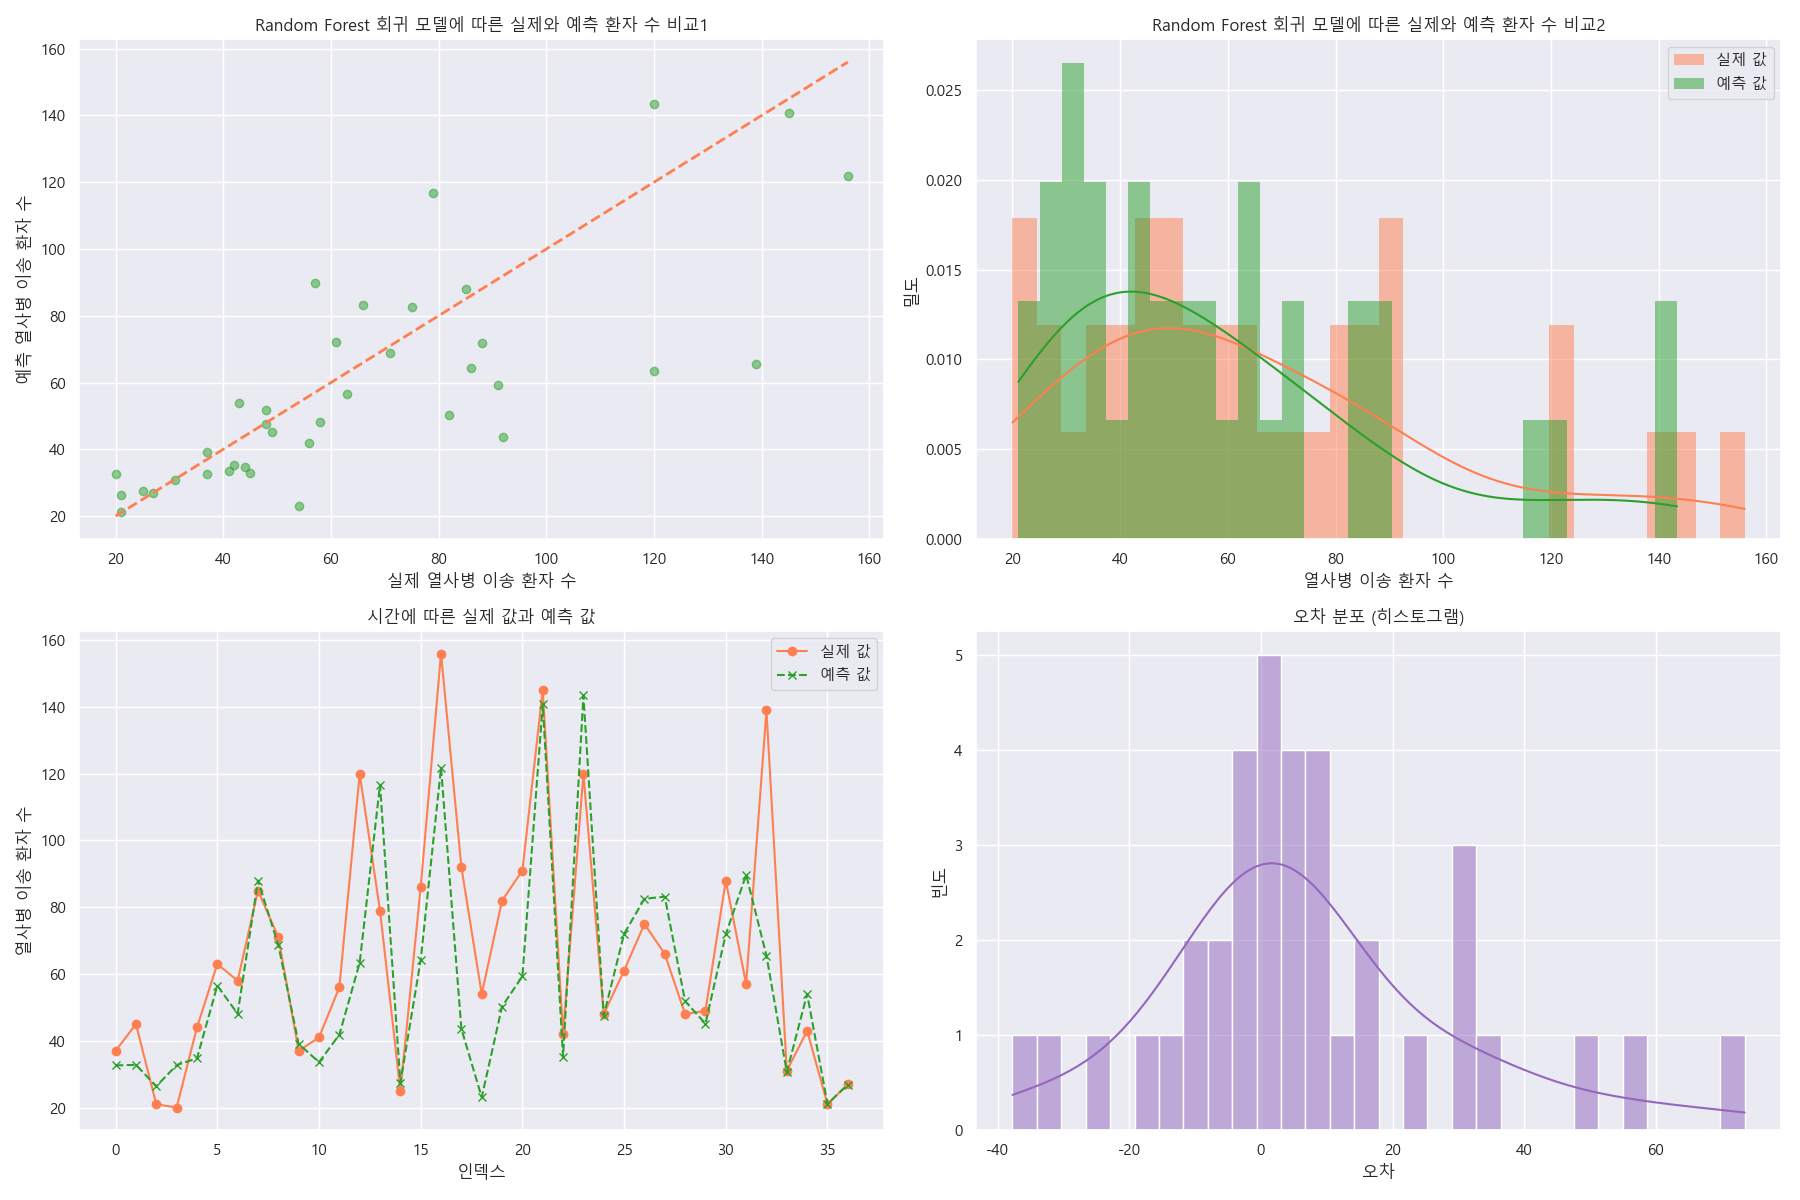
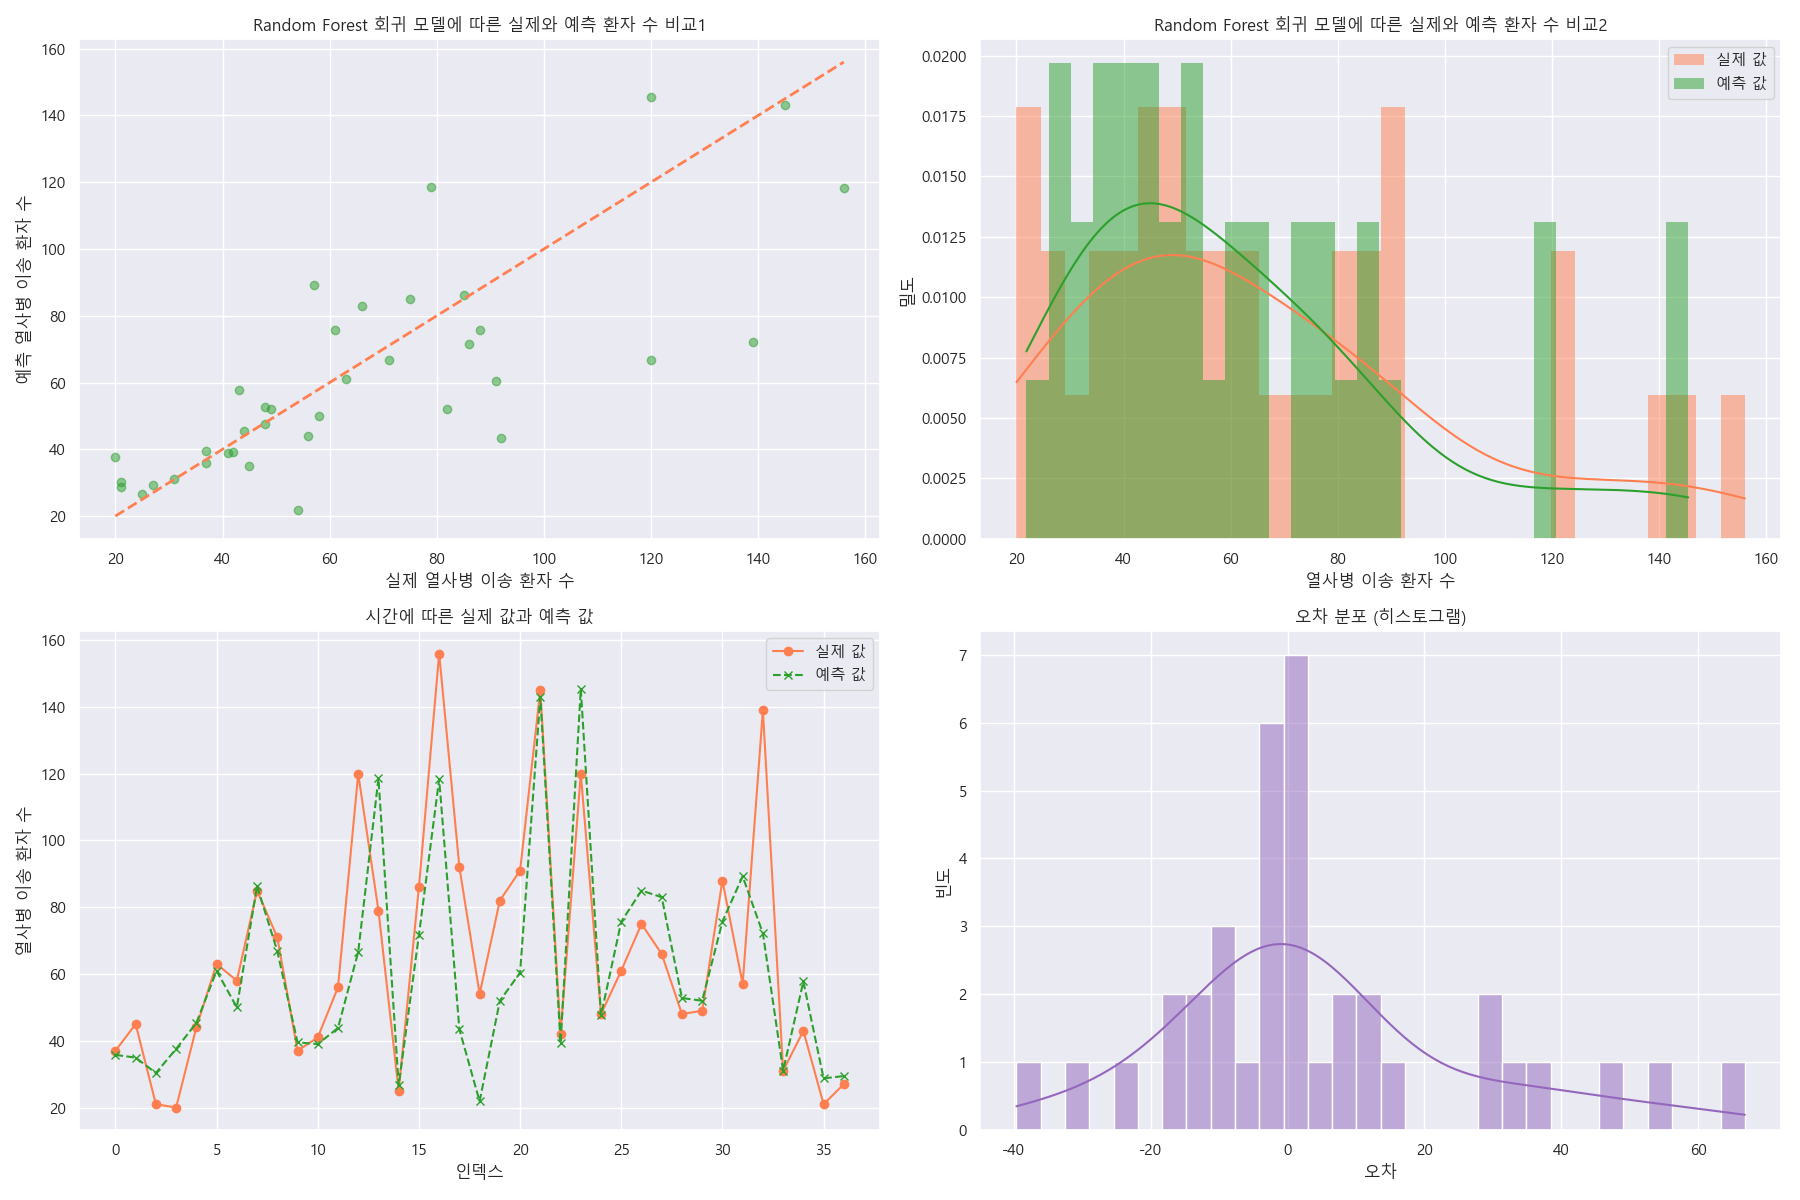
3조

diff --git a/Project_01_RandomForest.py b/Project_01_RandomForest.py
@@ -4,7 +4,7 @@ import matplotlib.pyplot as plt
 import matplotlib
 import seaborn as sns
 from sklearn.model_selection import train_test_split, KFold
-from sklearn.ensemble import GradientBoostingRegressor, RandomForestRegressor
+from sklearn.ensemble import RandomForestRegressor
 from sklearn.metrics import mean_squared_error, r2_score, mean_absolute_error
 from sklearn.preprocessing import StandardScaler
 sns.set_theme(style='darkgrid')
@@ -52,12 +52,12 @@ process_datetime(test_df)
 
 # 5. 데이터 전처리
 # 훈련 데이터에서 필요한 열 선택
-X_train = train_df[['Month', 'Day', '3최고기온', '4평균기온', '9평균습도(%)',
+X_train = train_df[['Year', 'Month', 'Day', '3최고기온', '4평균기온', '9평균습도(%)',
                     '10강수량합계(mm)', '18최고-최저 기온차', '19체감온도', '20불쾌지수', '39전일의 이송 인원수', '40이송 인원수 이동 평균(5일간)']]
 y_train = train_df['2이송 인원']
 
 # 테스트 데이터에서 필요한 열 선택
-X_test = test_df[['Month', 'Day', '3최고기온', '4평균기온', '9평균습도(%)',
+X_test = test_df[['Year', 'Month', 'Day', '3최고기온', '4평균기온', '9평균습도(%)',
                   '10강수량합계(mm)', '18최고-최저 기온차', '19체감온도', '20불쾌지수', '39전일의 이송 인원수', '40이송 인원수 이동 평균(5일간)']]
 y_test = test_df['2이송 인원']
 
@@ -78,7 +78,7 @@ for train_index, val_index in kf.split(X_train):
     X_train_fold, X_val_fold = X_train[train_index], X_train[val_index]
     y_train_fold, y_val_fold = y_train.iloc[train_index], y_train.iloc[val_index]
 
-    model = GradientBoostingRegressor(n_estimators=100, random_state=42)
+    model = RandomForestRegressor(n_estimators=100, random_state=42)
     model.fit(X_train_fold, y_train_fold)
 
     y_val_pred = model.predict(X_val_fold)

diff --git a/Project_01_correlation.py b/Project_01_correlation.py
@@ -71,7 +71,7 @@ for j in range(len(features), len(axes)):
     fig.delaxes(axes[j])
 
 plt.tight_layout()
-plt.suptitle("열사병 환자 이송 인원수와의 각 상관관계 그래프", y=1.02, fontsize=20)
+plt.suptitle("Heatstroke Patient Transportation Counts vs Features", y=1.02, fontsize=20)
 plt.savefig(os.path.join(output_dir, 'combined_scatter_plots.png'))
 plt.show()
 
@@ -93,7 +93,7 @@ for i, col in enumerate(column_names):
 for j in range(len(column_names), len(axes)):
     fig.delaxes(axes[j])
 
-fig.suptitle("특성별 밀도 플롯", y=1.02, fontsize=16)
+fig.suptitle("Density Plots of Features", y=1.02, fontsize=16)
 plt.tight_layout()
 plt.savefig(os.path.join(output_dir, 'density_plots.png'))
 plt.show()
